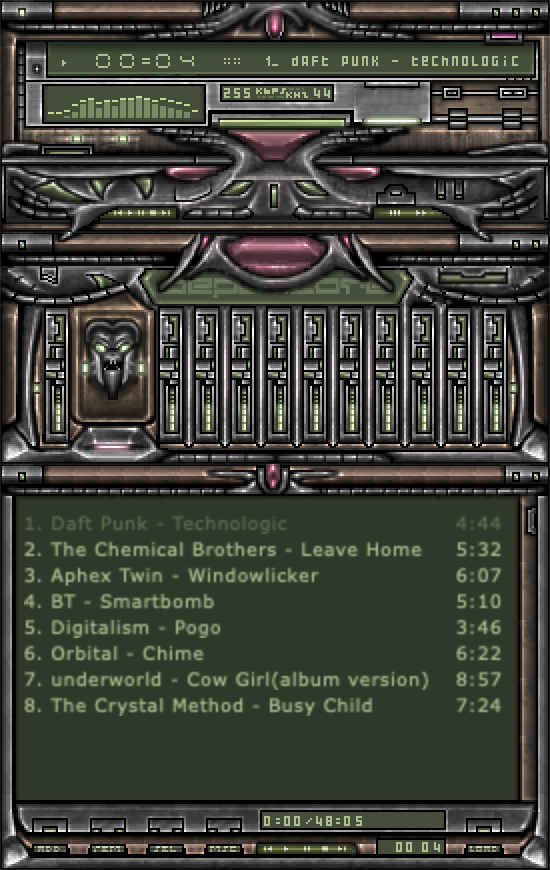
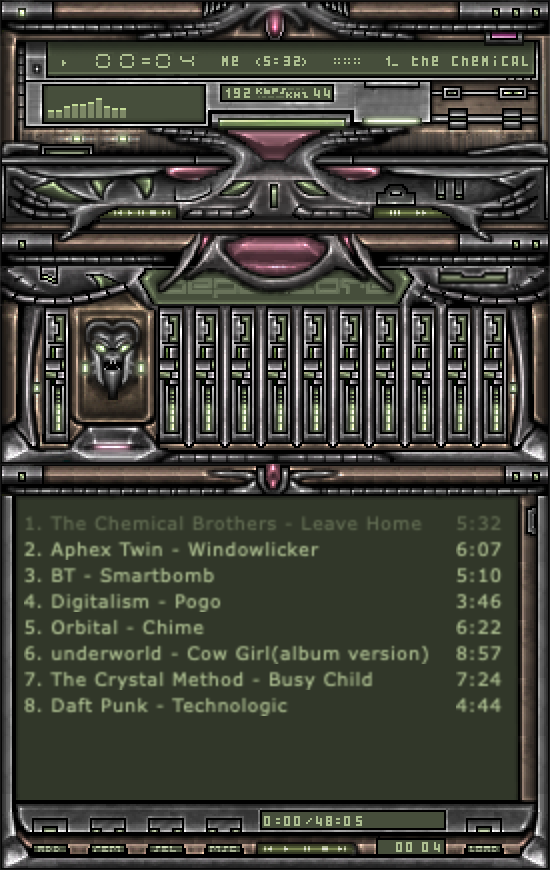
#0170 Add five skin screenshots, each on a different Electronic track
make-screenshots.sh starts shot N on track N (per-shot hard-linked folder) and records the track in manifest.json.
Featured: Asian Dragon, The NightCrawler, The Hustler, Matrix Code, Technics White; carousel shows all five.

diff --git a/website/index.html b/website/index.html
@@ -53,13 +53,25 @@
 <div class="screenshot-frame carousel" data-carousel aria-roledescription="carousel" aria-label="Roadie wearing different skins">
 <div class="screenshot-caption"><span>MAIN &middot; EQ &middot; PLAYLIST</span><span data-carousel-label aria-live="polite">DOCKED</span></div>
 <div class="carousel-track" tabindex="0">
-<figure class="carousel-slide" data-name="Asian Dragon" aria-roledescription="slide" aria-label="1 of 2">
+<figure class="carousel-slide" data-name="Asian Dragon" aria-roledescription="slide" aria-label="1 of 5">
 <picture><source srcset="assets/screens/asian-dragon.webp" type="image/webp"><img src="assets/screens/asian-dragon.png" alt="Roadie's main, equalizer and playlist windows docked, wearing the Asian Dragon skin: a painted dragon in orange clouds, playing Daft Punk's Technologic" width="550" height="870" draggable="false"></picture>
 <figcaption><strong>Asian Dragon</strong> by sir-akmal-ez</figcaption>
 </figure>
-<figure class="carousel-slide" data-name="The NightCrawler" aria-roledescription="slide" aria-label="2 of 2">
-<picture><source srcset="assets/screens/nightcrawler.webp" type="image/webp"><img src="assets/screens/nightcrawler.png" alt="Roadie's main, equalizer and playlist windows docked, wearing The NightCrawler skin: biomechanical grey metal with a playlist of Electronic tracks" width="550" height="870" loading="lazy" draggable="false"></picture>
+<figure class="carousel-slide" data-name="The NightCrawler" aria-roledescription="slide" aria-label="2 of 5">
+<picture><source srcset="assets/screens/nightcrawler.webp" type="image/webp"><img src="assets/screens/nightcrawler.png" alt="Roadie's main, equalizer and playlist windows docked, wearing The NightCrawler skin: biomechanical grey metal, playing The Chemical Brothers' Leave Home" width="550" height="870" loading="lazy" draggable="false"></picture>
 <figcaption><strong>The NightCrawler</strong> by Anuja and Arjuna Navaratna (t-k)</figcaption>
+</figure>
+<figure class="carousel-slide" data-name="The Hustler" aria-roledescription="slide" aria-label="3 of 5">
+<picture><source srcset="assets/screens/the-hustler.webp" type="image/webp"><img src="assets/screens/the-hustler.png" alt="Roadie's main, equalizer and playlist windows docked, wearing The Hustler skin: dogs shooting pool on green felt, playing Aphex Twin's Windowlicker" width="550" height="870" loading="lazy" draggable="false"></picture>
+<figcaption><strong>The Hustler</strong></figcaption>
+</figure>
+<figure class="carousel-slide" data-name="Matrix Code" aria-roledescription="slide" aria-label="4 of 5">
+<picture><source srcset="assets/screens/matrix-code.webp" type="image/webp"><img src="assets/screens/matrix-code.png" alt="Roadie's main, equalizer and playlist windows docked, wearing the Matrix Code skin: green digital rain on black, playing BT's Smartbomb" width="550" height="870" loading="lazy" draggable="false"></picture>
+<figcaption><strong>Matrix Code</strong> by Jim from Germany</figcaption>
+</figure>
+<figure class="carousel-slide" data-name="Technics White" aria-roledescription="slide" aria-label="5 of 5">
+<picture><source srcset="assets/screens/technics-white.webp" type="image/webp"><img src="assets/screens/technics-white.png" alt="Roadie's main, equalizer and playlist windows docked, wearing the Technics White skin: twin silver turntables and a DJ mixer, playing Digitalism's Pogo" width="550" height="870" loading="lazy" draggable="false"></picture>
+<figcaption><strong>Technics White</strong> by johnnyg0</figcaption>
 </figure>
 </div>
 <div class="carousel-dots" role="group" aria-label="Choose a skin"></div>
